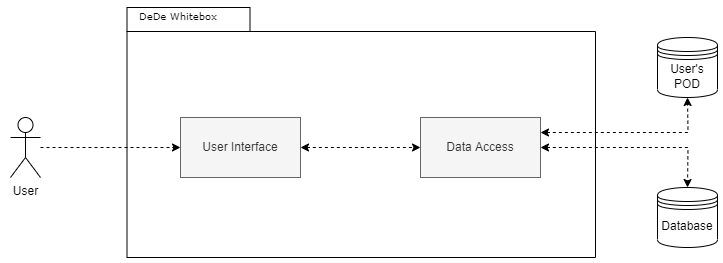
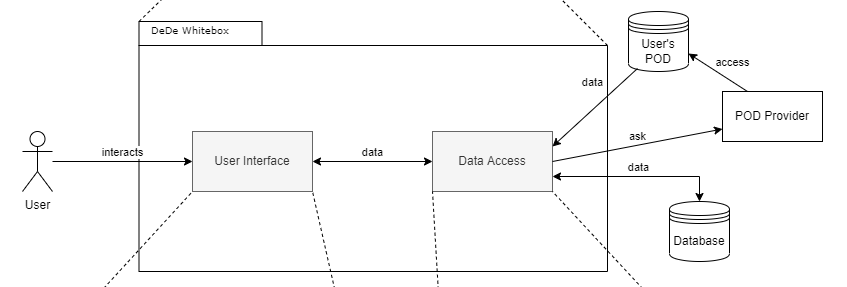
Updates

diff --git a/index.html b/index.html
@@ -1078,7 +1078,7 @@ In the best case you will get away with examples or simple signatures.</p>
 <dl>
 <dt class="hdlist1">Motivation</dt>
 <dd>
-<p><em>&lt;text explanation&gt;</em></p>
+<p>Decentralized Delivery (DeDe) is a retail system that will offer the users the possibility of shopping online and delivering it to their address while keeping the users' private information decentralized in PODs.</p>
 </dd>
 <dt class="hdlist1">Contained Building Blocks</dt>
 </dl>
@@ -1099,53 +1099,20 @@ In the best case you will get away with examples or simple signatures.</p>
 <td class="tableblock halign-left valign-top"><p class="tableblock">DeDe</p></td>
 <td class="tableblock halign-left valign-top"><p class="tableblock">Main part of the application. The user will interact with it and it will access the necessary data from the database and the user&#8217;s POD.</p></td>
 </tr>
-</tbody>
-</table>
-<div class="dlist">
-<dl>
-<dt class="hdlist1">Important Interfaces</dt>
-<dd>
-<p><em>&lt;Description of important interfaces&gt;</em></p>
-</dd>
-</dl>
-</div>
-<div class="sidebarblock arc42help">
-<div class="content">
-<div class="paragraph">
-<p>Insert your explanations of black boxes from level 1:</p>
-</div>
-<div class="paragraph">
-<p>If you use tabular form you will only describe your black boxes with name and
-responsibility according to the following schema:</p>
-</div>
-<table class="tableblock frame-all grid-all stretch">
-<colgroup>
-<col style="width: 33.3333%;">
-<col style="width: 66.6667%;">
-</colgroup>
-<thead>
 <tr>
-<th class="tableblock halign-left valign-top"><strong>Name</strong></th>
-<th class="tableblock halign-left valign-top"><strong>Responsibility</strong></th>
-</tr>
-</thead>
-<tbody>
-<tr>
-<td class="tableblock halign-left valign-top"><p class="tableblock"><em>&lt;black box 1&gt;</em></p></td>
-<td class="tableblock halign-left valign-top"><p class="tableblock"> <em>&lt;Text&gt;</em></p></td>
+<td class="tableblock halign-left valign-top"><p class="tableblock">POD Provider</p></td>
+<td class="tableblock halign-left valign-top"><p class="tableblock">System that stores the PODs of the users and will be used to access them.</p></td>
 </tr>
 <tr>
-<td class="tableblock halign-left valign-top"><p class="tableblock"><em>&lt;black box 2&gt;</em></p></td>
-<td class="tableblock halign-left valign-top"><p class="tableblock"> <em>&lt;Text&gt;</em></p></td>
+<td class="tableblock halign-left valign-top"><p class="tableblock">User&#8217;s POD</p></td>
+<td class="tableblock halign-left valign-top"><p class="tableblock">The user&#8217;s information will be stored here in order to keep it decentralized.</p></td>
+</tr>
+<tr>
+<td class="tableblock halign-left valign-top"><p class="tableblock">Database</p></td>
+<td class="tableblock halign-left valign-top"><p class="tableblock">Here the minimal information of the application will be stored.</p></td>
 </tr>
 </tbody>
 </table>
-<div class="paragraph">
-<p>If you use a list of black box descriptions then you fill in a separate black box template for every important building block .
-Its headline is the name of the black box.</p>
-</div>
-</div>
-</div>
 </div>
 <div class="sect2">
 <h3 id="_level_1">5.2. Level 1</h3>
@@ -1235,56 +1202,40 @@ Leave out normal, simple, boring or standardized parts of your system</p>
 </thead>
 <tbody>
 <tr>
-<td class="tableblock halign-left valign-top"><p class="tableblock">Products</p></td>
-<td class="tableblock halign-left valign-top"><p class="tableblock"> &#8230;&#8203;</p></td>
+<td class="tableblock halign-left valign-top"><p class="tableblock">Log in</p></td>
+<td class="tableblock halign-left valign-top"><p class="tableblock">The user will be able to log in or register an account in the system.</p></td>
 </tr>
 <tr>
-<td class="tableblock halign-left valign-top"><p class="tableblock">Shopping cart</p></td>
-<td class="tableblock halign-left valign-top"><p class="tableblock"> &#8230;&#8203;</p></td>
+<td class="tableblock halign-left valign-top"><p class="tableblock">Location</p></td>
+<td class="tableblock halign-left valign-top"><p class="tableblock">This will be the location the application will use in order to deliver the user&#8217;s orders.</p></td>
 </tr>
 <tr>
 <td class="tableblock halign-left valign-top"><p class="tableblock">Orders done</p></td>
-<td class="tableblock halign-left valign-top"><p class="tableblock"> &#8230;&#8203;</p></td>
+<td class="tableblock halign-left valign-top"><p class="tableblock"> The user will be able to see the orders they have done already.</p></td>
+</tr>
+<tr>
+<td class="tableblock halign-left valign-top"><p class="tableblock">Profile</p></td>
+<td class="tableblock halign-left valign-top"><p class="tableblock">The user will see here their personal data that the system is provided with and will be able to edit it.</p></td>
+</tr>
+<tr>
+<td class="tableblock halign-left valign-top"><p class="tableblock">Products Catalogue</p></td>
+<td class="tableblock halign-left valign-top"><p class="tableblock"> The user will be able to see the full catalogue offered by the retail company and will be able to choose what to buy.</p></td>
+</tr>
+<tr>
+<td class="tableblock halign-left valign-top"><p class="tableblock">Shopping cart</p></td>
+<td class="tableblock halign-left valign-top"><p class="tableblock"> The user can check here the products they have selected to buy.</p></td>
 </tr>
 <tr>
 <td class="tableblock halign-left valign-top"><p class="tableblock">SOLID Accessing</p></td>
-<td class="tableblock halign-left valign-top"><p class="tableblock"> &#8230;&#8203;</p></td>
+<td class="tableblock halign-left valign-top"><p class="tableblock"> Provides the libraries to communicate between the user&#8217;s POD and the POD provider.</p></td>
 </tr>
 <tr>
 <td class="tableblock halign-left valign-top"><p class="tableblock">RestApi</p></td>
-<td class="tableblock halign-left valign-top"><p class="tableblock"> &#8230;&#8203;</p></td>
+<td class="tableblock halign-left valign-top"><p class="tableblock"> Provides communication between the database and the application.</p></td>
 </tr>
 </tbody>
 </table>
-<div class="sect3">
-<h4 id="_white_box_building_block_1">5.3.1. White Box <em>&lt;building block 1&gt;</em></h4>
-<div class="sidebarblock arc42help">
-<div class="content">
-<div class="paragraph">
-<p>&#8230;&#8203;describes the internal structure of <em>building block 1</em>.</p>
-</div>
-</div>
-</div>
-<div class="paragraph">
-<p><em>&lt;white box template&gt;</em></p>
-</div>
-</div>
-<div class="sect3">
-<h4 id="_white_box_building_block_2">5.3.2. White Box <em>&lt;building block 2&gt;</em></h4>
-<div class="paragraph">
-<p><em>&lt;white box template&gt;</em></p>
-</div>
-<div class="paragraph">
-<p>&#8230;&#8203;</p>
-</div>
-</div>
-<div class="sect3">
-<h4 id="_white_box_building_block_m">5.3.3. White Box <em>&lt;building block m&gt;</em></h4>
-<div class="paragraph">
-<p><em>&lt;white box template&gt;</em></p>
-</div>
 <div style="page-break-after: always;"></div>
-</div>
 </div>
 </div>
 </div>
